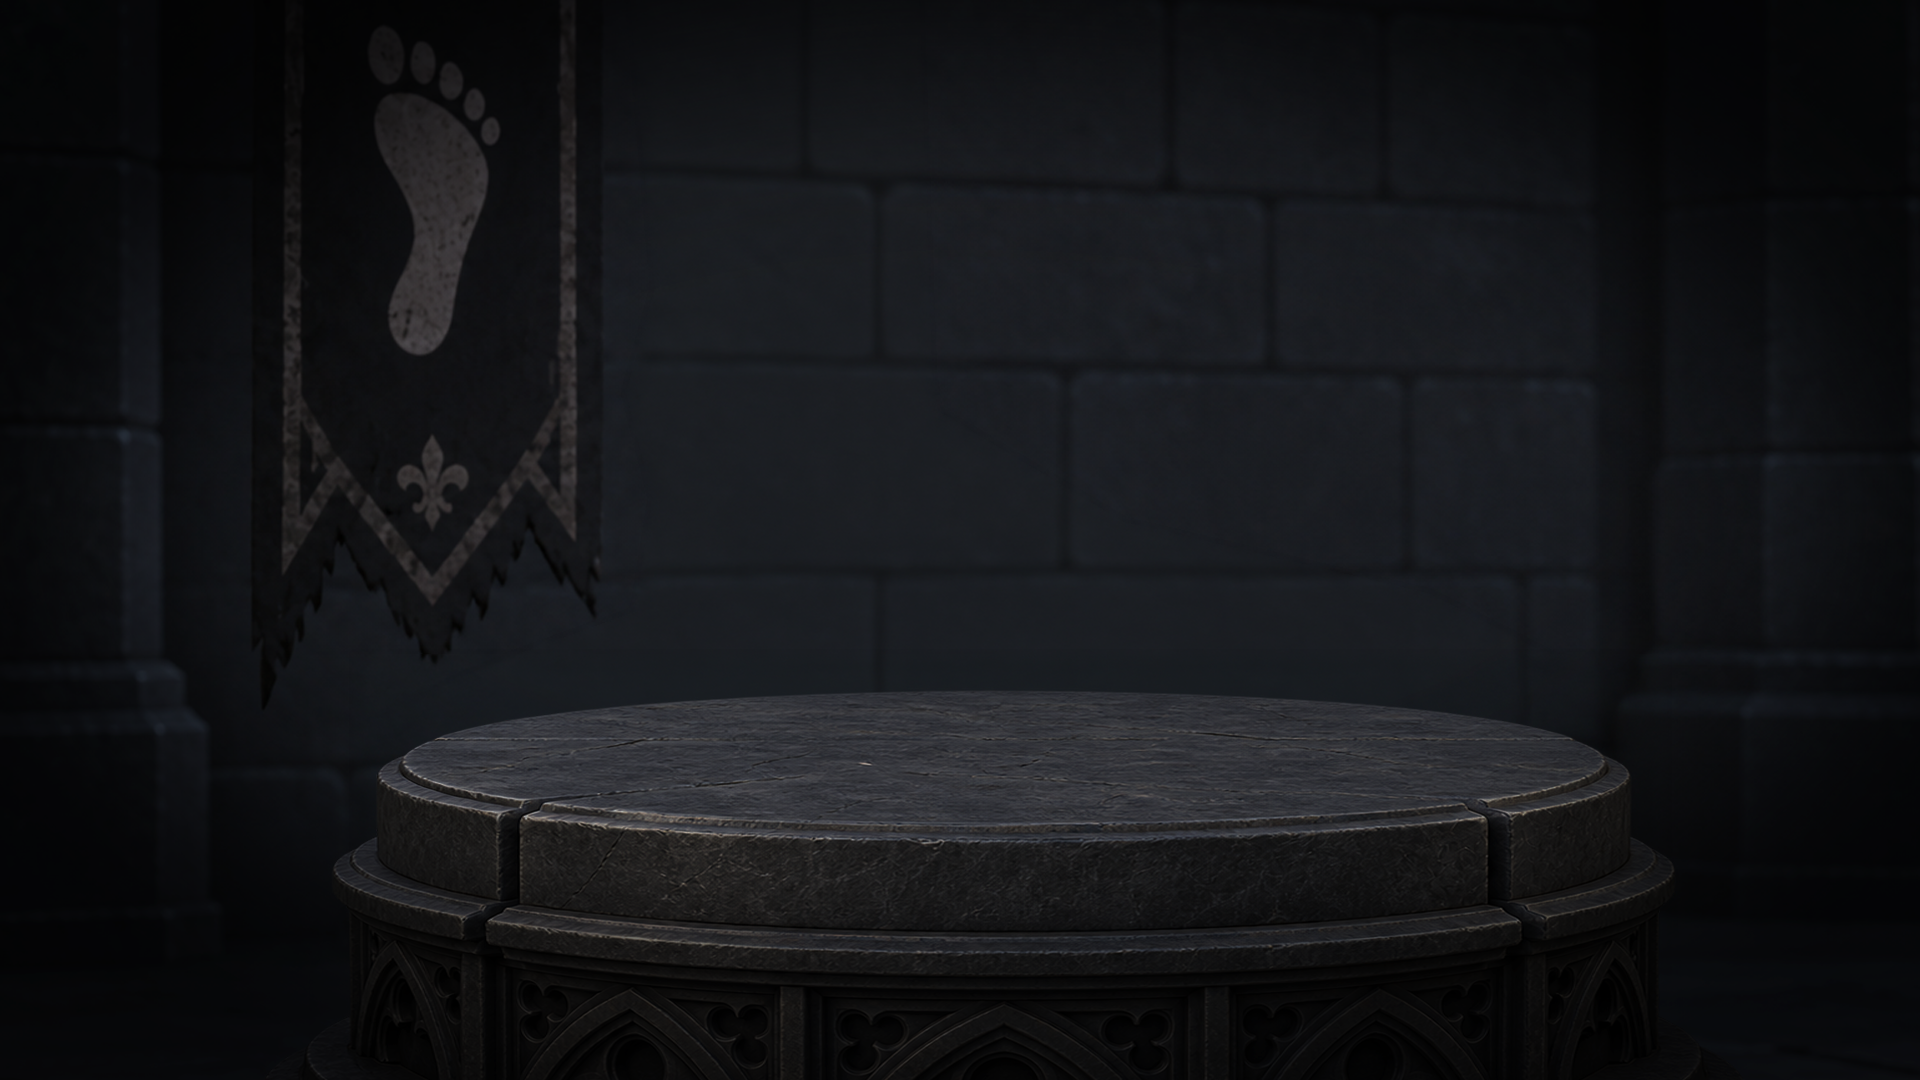
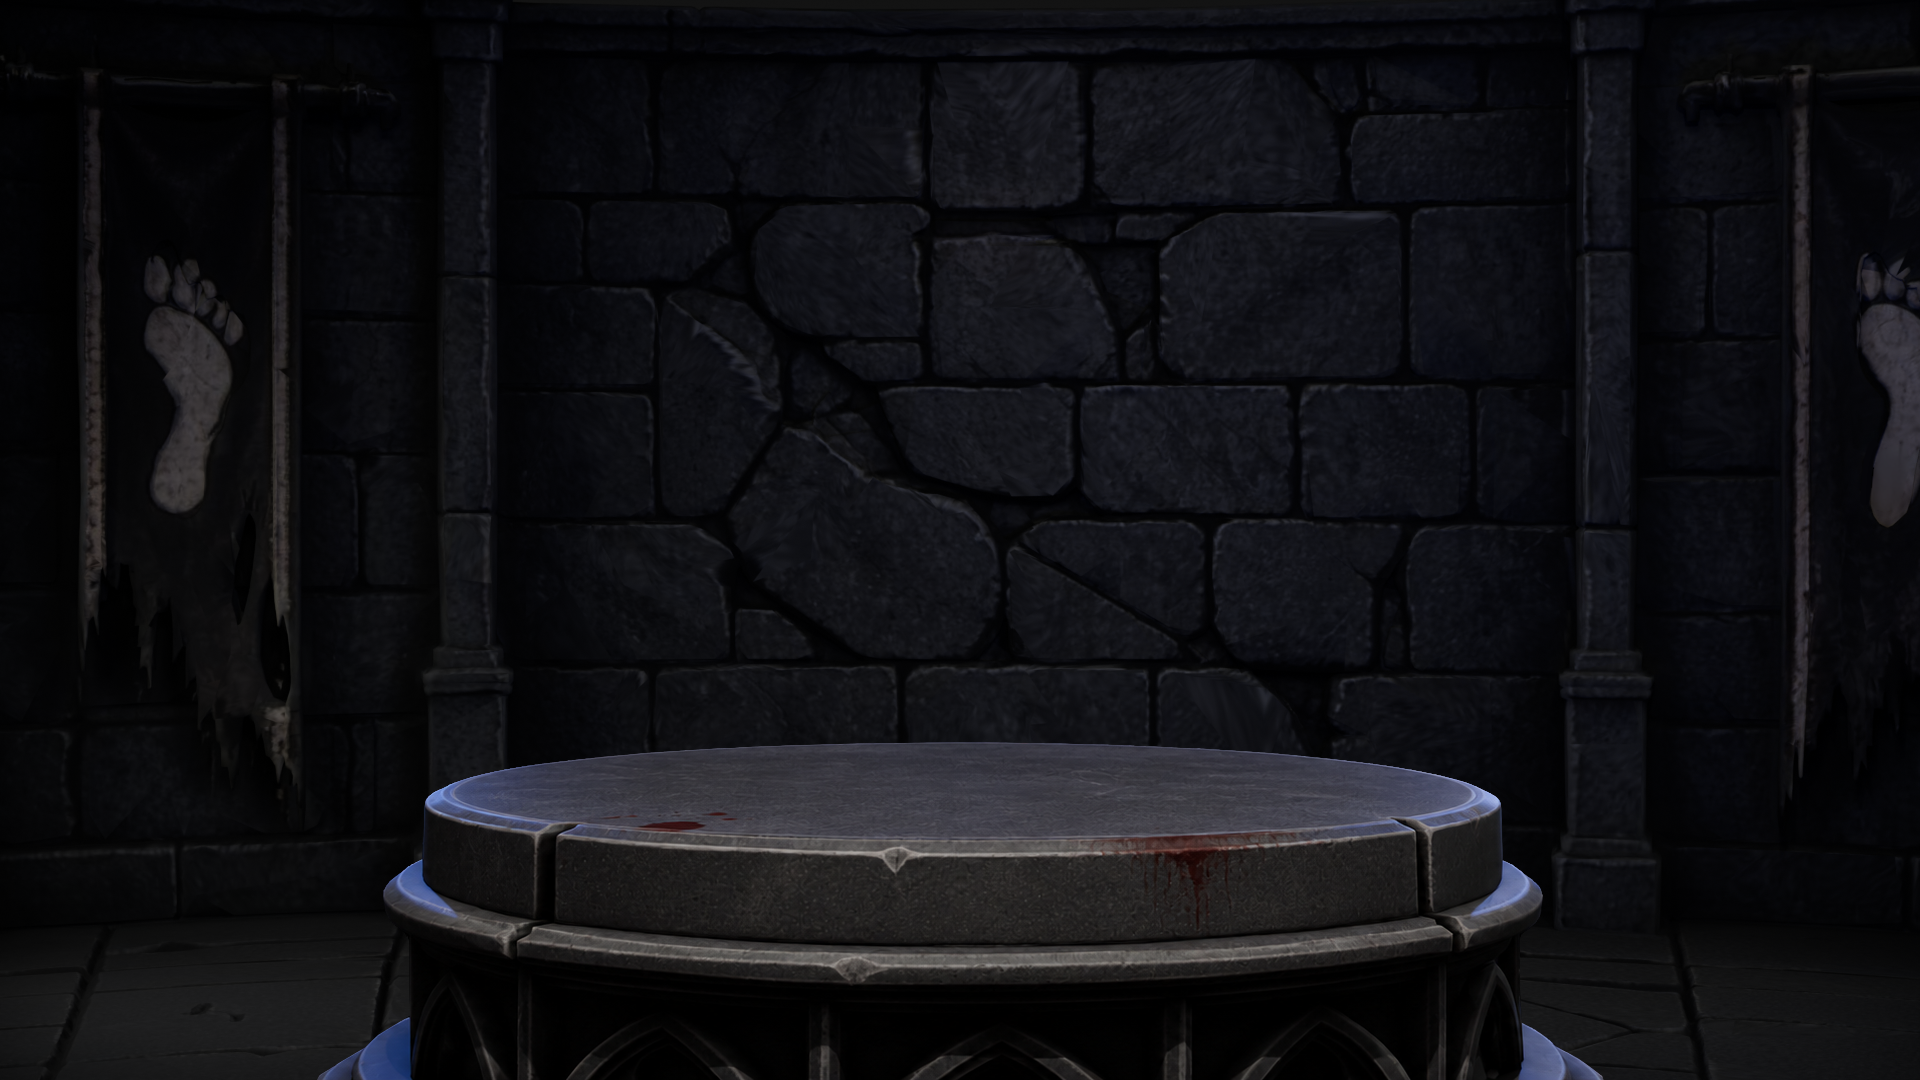
background

diff --git a/src/tuning.js b/src/tuning.js
@@ -12,8 +12,8 @@ export const TUNING = {
     totalSeconds:   20,  // скільки всього часу на раунд
 
     // false — таймер раунду й показ чобота стартують РАЗОМ.
-    //         Тобто чобіт видно перші 30 секунд із 40, останні 10 — по памʼяті.
-    // true  — спершу 30 секунд просто дивимось, потім починаються 40 секунд роботи.
+    //         Тобто чобіт видно перші секунди раунду, решту часу — по памʼяті.
+    // true  — спершу просто дивимось, і лише потім починається час на роботу.
     timerStartsAfterPreview: false,
 
     passPercent:      80,  // з якого відсотка збігу раунд зараховується
@@ -32,9 +32,16 @@ export const TUNING = {
   // (для цих двох — 46% і 51%). Ставити поріг нижче за це число не можна,
   // інакше раунд зарахується тому, хто нічого не робив.
   // Точні числа гра друкує в консоль браузера (F12) при запуску.
+  //
+  // Чобіт прикладається до стопи автоматично: по довжині стопи, підошвою
+  // на ту саму землю. Якщо конкретний чобіт сидить не так, підправ його
+  // трьома необовʼязковими числами:
+  //   scale   — 1 це «як є», 1.1 більший, 0.9 менший
+  //   offsetX — зсув убік, у частках довжини стопи (+ вправо)
+  //   offsetY — зсув вгору-вниз, у частках висоти стопи (+ вниз)
   boots: [
-    { src: 'assets/boot1.png', name: 'Чобіток на шпильці',  passPercent: 70 },
-    { src: 'assets/boot2.png', name: 'Чобіток на підборах', passPercent: 72 },
+    { src: 'assets/boot1.png', name: 'Коричневий на підборах', passPercent: 65 },
+    { src: 'assets/boot2.png', name: 'Світлий чобіток',        passPercent: 65 },
   ],
 
   // ── ЯК ПОКАЗУВАТИ ЧОБІТ ──────────────────────────────────────
@@ -59,11 +66,15 @@ export const TUNING = {
 
     // Розмір і місце рахуються по САМІЙ стопі, без прозорих полів,
     // тому числа не попливуть, якщо заміните картинку на іншу.
-    heightPercent: 0.60,  // яку частину висоти екрана займає стопа
-    standX:        0.52,  // де по горизонталі вона стоїть (частка ширини)
-    standY:        0.755, // на якій висоті підошва (частка висоти)
+    // Ці три числа зняті з референсної картинки композиції.
+    heightPercent: 0.79,   // яку частину висоти екрана займає стопа
+    standX:        0.517,  // де по горизонталі вона стоїть (частка ширини)
+    standY:        0.7375, // на якій висоті підошва (частка висоти)
+    // За таких значень верх гомілки трохи виходить за екран — так само,
+    // як на референсі. Хочеш бачити ногу цілком — постав 0.73.
 
-    shadow:        true,  // мʼяка тінь під стопою, щоб не «висіла» над каменем
+    shadow:        false, // мʼяка тінь під стопою. У цьому рендері вона вже
+                          // намальована художником, тому вимкнена.
     shadowWidth:   0.62,  // ширина тіні відносно ширини стопи
     shadowHeight:  0.05,  // висота тіні відносно висоти стопи
 

diff --git a/src/game.js b/src/game.js
@@ -194,7 +194,11 @@ function prepBoot(def, img) {
     img,
     shape: makeSilhouette(img, T.colors.overlay),   // для накладання на стопу
     mask, mw: w, mh: h,
-    bbox: bb && { cx: bb.cx * back, cy: bb.cy * back, w: bb.w * back, h: bb.h * back },
+    scale:   typeof def.scale === 'number' ? def.scale : 1,
+    offsetX: typeof def.offsetX === 'number' ? def.offsetX : 0,
+    offsetY: typeof def.offsetY === 'number' ? def.offsetY : 0,
+    bbox: bb && { cx: bb.cx * back, cy: bb.cy * back,
+                  w: bb.w * back, h: bb.h * back, bottom: (bb.y1 + 1) * back },
   };
 }
 
@@ -259,8 +263,16 @@ function bboxOf(mask, W, H) {
 // за стопою, і гравцеві не було б до чого підлаштовуватись.
 function frameFor(boot) {
   if (!footBB || !boot.bbox) return null;
-  const k = Math.max(footBB.w, footBB.h) / Math.max(boot.bbox.w, boot.bbox.h);
-  return { k, dx: footBB.cx - boot.bbox.cx * k, dy: footBB.cy - boot.bbox.cy * k };
+
+  // Прикладаємо по ДОВЖИНІ стопи, а підошву чобота ставимо на ту саму
+  // землю, що й підошву стопи. Раніше рівняли по більшій стороні — і чобіт
+  // роздувався на всю ногу, бо стопа з гомілкою висока, а чобіт широкий.
+  const k = (footBB.w / boot.bbox.w) * boot.scale;
+  return {
+    k,
+    dx: footBB.cx - boot.bbox.cx * k + boot.offsetX * footBB.w,
+    dy: (footBB.y1 + 1) - boot.bbox.bottom * k + boot.offsetY * footBB.h,
+  };
 }
 
 // Силует стопи на сітці, натягнутій на весь буфер.
